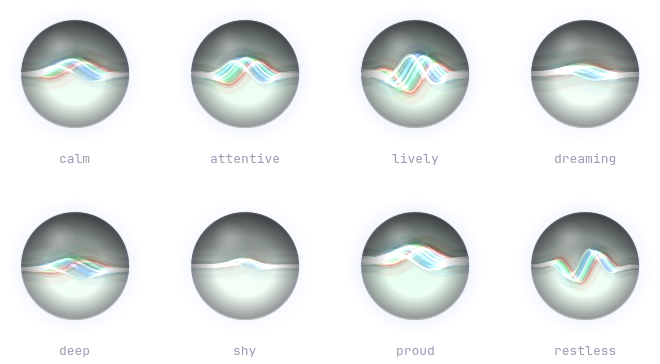
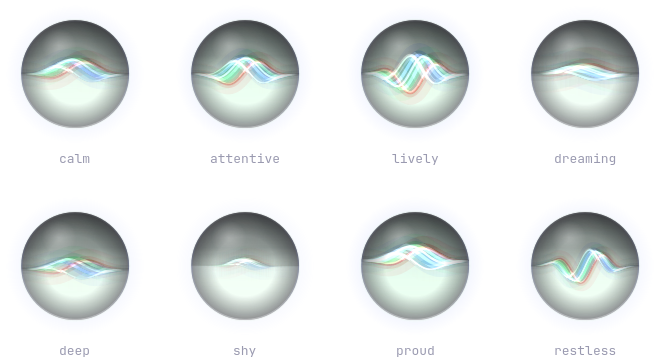
Give the fork its own IPC target, state dir, and config file
Installing this alongside Omarchy Companion showed that a fork inherits
three names it cannot share, and that all three fail silently.

The IPC target was `companion`, which the parent also claims. Quickshell
hands a duplicate target to whichever service registered first, so every
`omarchy-shell` call went to whichever plugin happened to load first, with
nothing but a warning in the shell log to say so. The state directory was
`$XDG_STATE_HOME/omarchy/companion/`, so both services published status,
home position, sessions and themed sheets over each other. And the pre-4.0
settings file the migration reads was `~/.config/omarchy/companion.json` —
reading it would have re-migrated the other plugin's settings into this one.

All three are named for this plugin now: target `iris`, state under
`omarchy/iris/`, and `iris.json` for a legacy file this fork has never had.
The CLI is `omarchy-shell iris ...` throughout.

Also fixes the band's brightness falloff. The original multiplies its final
colour by the horizontal gaussian as well as applying it to the amplitude;
this only did the latter, so the band flattened into a bright bar running
edge to edge at the equator instead of dimming towards the flanks. Canvas
cannot vary alpha along a stroke, so the stroke takes a horizontal gradient
whose alpha follows the same curve. Caught by looking at the orb on a real
desktop rather than in a test.

And corrects one CLI example the settings rename had missed
[…]

diff --git a/keystone/Service.qml b/keystone/Service.qml
@@ -107,7 +107,11 @@ Item {
     if (e) for (var j in e) if (root.allowedSetting(j)) out[j] = e[j]
     return out
   }
-  readonly property string configFile: root.home + "/.config/omarchy/companion.json"
+  // Omarchief kept its settings in a file before 4.0, and the migration that
+  // reads one still runs. This fork never had such a file — it is named after
+  // this plugin rather than its parent so that installing Iris alongside
+  // Omarchy Companion cannot read, or re-migrate, the other one's settings.
+  readonly property string configFile: root.home + "/.config/omarchy/iris.json"
   readonly property var settingKeys: [
     "activity", "activityChance", "activityRestSec", "agent",
     "edgeGap", "expressionChance", "expressions", "followFocus",
@@ -142,7 +146,7 @@ Item {
 
     // Once a canonical entry carries the marker, the retired file is inert.
     // This matters after a person removes a migrated key: a later restart
-    // must not resurrect the old value from ~/.config/omarchy/companion.json.
+    // must not resurrect the old value from ~/.config/omarchy/iris.json.
     var merged = root.mergeSettings(({}), root.migrationMarked(before) ? ({}) : fileCfg)
     var top = null
     for (var p = 0; p < next.plugins.length; p++) {
@@ -543,7 +547,7 @@ Item {
   // the rest of our state rather than in the user's config, because it is a
   // placement, not a preference.
 
-  readonly property string homeFile: stateHome + "/omarchy/companion/home.json"
+  readonly property string homeFile: stateHome + "/omarchy/iris/home.json"
   property var homes: ({})
   // A drag or travel can beat the asynchronous first read. Keep every new
   // position and the last chosen monitor until the disk state is available,
@@ -1356,7 +1360,7 @@ Item {
   // state, and a stamp file records which accent it was made for, so a
   // shell restart does not redo work that is already done.
 
-  readonly property string themedDir: stateHome + "/omarchy/companion/themed"
+  readonly property string themedDir: stateHome + "/omarchy/iris/themed"
   // One themed sheet per accent, named for it. Redrawing takes a second;
   // switching between themes the creature has already worn should not. The
   // sheet for the old accent stays on disk, so switching back is a stat and
@@ -1965,7 +1969,7 @@ Item {
   property bool welcomed: true
   FileView {
     id: welcomeStore
-    path: root.stateHome + "/omarchy/companion/welcomed"
+    path: root.stateHome + "/omarchy/iris/welcomed"
     atomicWrites: true
     printErrors: false
     onLoaded: root.welcomed = true
@@ -2326,9 +2330,9 @@ Item {
 
   // ------------------------------------------------------------ IPC
   //
-  //   omarchy-shell companion ask | summon | toggle | show | hide | status
-  //   omarchy-shell companion order "open spotify on DP-2"
-  //   omarchy-shell companion travel DP-2
+  //   omarchy-shell iris ask | summon | toggle | show | hide | status
+  //   omarchy-shell iris order "open spotify on DP-2"
+  //   omarchy-shell iris travel DP-2
 
   property bool shown: true
   // Slid mostly off its edge, out of the way. A click brings it back.
@@ -2343,7 +2347,10 @@ Item {
   // The chief's inner state, published as a small JSON file for scripts and
   // diagnostics. It is a read-only mirror; the bar binds to this service
   // directly and never waits for a file round-trip.
-  readonly property string statusDir: stateHome + "/omarchy/companion"
+  // Named for this plugin, not for the family. Omarchy Companion writes the
+  // same set of files under `omarchy/companion`, and two services sharing one
+  // status directory would each publish over the other's state.
+  readonly property string statusDir: stateHome + "/omarchy/iris"
 
   function statusJson() {
     return JSON.stringify({
@@ -2626,7 +2633,11 @@ Item {
   }
 
   IpcHandler {
-    target: "companion"
+    // Not "companion". Omarchy Companion claims that target, and Quickshell
+    // gives a duplicate to whichever service registered first — so a fork that
+    // kept it would silently route every `omarchy-shell` call to whichever of
+    // the two happened to load first.
+    target: "iris"
 
     function ask(): void { root.askOn("") }
     function order(text: string): string { root.shown = true; return root.runOrder(text) }

diff --git a/keystone/Iris.js b/keystone/Iris.js
@@ -1000,6 +1000,29 @@ function layerPoints(frame, spread, out) {
   return pts
 }
 
+/**
+ * A stroke that fades out towards the orb's flanks.
+ *
+ * The original applies its gaussian TWICE and to two different things: once to
+ * the band's amplitude, in `bandAt`, and once to the final colour — `col = cgl *
+ * mix(1.0, emMask * fall, res)` — which is what makes the band dim as it nears
+ * the edge rather than flattening into a bright bar across the equator.
+ *
+ * `bandAt` covers the first. This is the second: a horizontal gradient whose
+ * alpha follows the same curve, used as the stroke's colour. Canvas cannot vary
+ * an alpha along a stroke any other way, and stroking the band in segments to
+ * fake it costs eight times the calls for a worse edge.
+ */
+function fadedStroke(ctx, R, rgb, w, alpha) {
+  var grad = ctx.createLinearGradient(-R, 0, R, 0)
+  for (var i = 0; i <= 8; i++) {
+    var x = -1 + i / 4
+    var fall = Math.exp(-Math.pow(x * w.falloff, 2))
+    grad.addColorStop(i / 8, rgba(rgb, alpha * fall))
+  }
+  return grad
+}
+
 function strokeBand(ctx, pts, color, width, alpha) {
   if (alpha <= 0.002 || width <= 0) return
   ctx.beginPath()
@@ -1164,15 +1187,17 @@ function paint(ctx, frame, palette, paper) {
   for (i = 0; i < LAYERS.length; i++) {
     var col = layerColor(palette[i] || LAYERS[i].rgb, w)
     layerPoints(frame, LAYERS[i].spread, pts)
-    strokeBand(ctx, pts, rgba(col, 0.085 * w.intensity * alpha), core * 9, 1)
-    strokeBand(ctx, pts, rgba(col, 0.16 * w.intensity * alpha), core * 3.5, 1)
-    strokeBand(ctx, pts, rgba(col, 0.34 * w.intensity * alpha), core * 1.2, 1)
+    strokeBand(ctx, pts, fadedStroke(ctx, R, col, w, 0.085 * w.intensity * alpha), core * 9, 1)
+    strokeBand(ctx, pts, fadedStroke(ctx, R, col, w, 0.16 * w.intensity * alpha), core * 3.5, 1)
+    strokeBand(ctx, pts, fadedStroke(ctx, R, col, w, 0.34 * w.intensity * alpha), core * 1.2, 1)
   }
 
   // The white heart. Drawn on the mean of the two centre layers so it sits
   // where the crests actually agree, which is where the original goes white.
   layerPoints(frame, 0, pts)
-  strokeBand(ctx, pts, rgba(layerColor([1, 1, 1], w), 0.34 * w.intensity * alpha), core * 0.9, 1)
+  strokeBand(ctx, pts,
+    fadedStroke(ctx, R, layerColor([1, 1, 1], w), w, 0.34 * w.intensity * alpha),
+    core * 0.9, 1)
 
   ctx.globalCompositeOperation = "source-over"
   ctx.restore()

diff --git a/keystone/Model.js b/keystone/Model.js
@@ -475,7 +475,7 @@ function buildGuardedRunner(cwd, argv) {
   var quoted = []
   for (var i = 0; i < argv.length; i++) quoted.push(shellQuote(argv[i]))
   return "cd " + shellQuote(cwd) + " || exit 1; owner=$$; guard=; guard_ready=0;"
-    + " ready=$(mktemp /tmp/companion-guard.XXXXXX) || exit 1;"
+    + " ready=$(mktemp /tmp/iris-guard.XXXXXX) || exit 1;"
     + " wait_ready() { for ((ready_step=0; ready_step<200; ready_step++)); do"
     + " [ -s \"$ready\" ] && return 0;"
     + " [ -n \"$guard\" ] && kill -0 \"$guard\" 2>/dev/null || return 1;"

diff --git a/README.md b/README.md
@@ -160,9 +160,9 @@ being carried lets the band lag and slosh.
 From a terminal:
 
 ```bash
-omarchy-shell companion shell frosted
-omarchy-shell companion tint theme
-omarchy-shell companion temper lively
+omarchy-shell iris shell frosted
+omarchy-shell iris tint theme
+omarchy-shell iris temper lively
 ```
 
 Each lists what it accepts when given something it does not know. A value is
@@ -201,8 +201,8 @@ unchanged. Anything with news to deliver cuts a performance short, and so does
 your hand. To ask for one:
 
 ```bash
-omarchy-shell companion play notice
-omarchy-shell companion play          # whatever it feels like
+omarchy-shell iris play notice
+omarchy-shell iris play          # whatever it feels like
 ```
 
 ## Bring your own companion
@@ -230,25 +230,25 @@ and a themeable hue range. The complete schema is in
 ## Useful commands
 
 ```bash
-omarchy-shell companion ask
-omarchy-shell companion order "open my calendar"
-omarchy-shell companion stop
-omarchy-shell companion summon
-omarchy-shell companion fresh
-omarchy-shell companion travel DP-2
-omarchy-shell companion tuck on
-omarchy-shell companion show
-omarchy-shell companion hide
-omarchy-shell companion status
-omarchy-shell companion shell halo
-omarchy-shell companion color bleu
-omarchy-shell companion temper deep
+omarchy-shell iris ask
+omarchy-shell iris order "open my calendar"
+omarchy-shell iris stop
+omarchy-shell iris summon
+omarchy-shell iris fresh
+omarchy-shell iris travel DP-2
+omarchy-shell iris tuck on
+omarchy-shell iris show
+omarchy-shell iris hide
+omarchy-shell iris status
+omarchy-shell iris shell halo
+omarchy-shell iris tint bleu
+omarchy-shell iris temper deep
 ```
 
 Every mutation validates its value before changing state. The JSON status
 snapshot lives at
-`$XDG_STATE_HOME/omarchy/companion/status.json` (normally
-`~/.local/state/omarchy/companion/status.json`) for read-only integrations.
+`$XDG_STATE_HOME/omarchy/iris/status.json` (normally
+`~/.local/state/omarchy/iris/status.json`) for read-only integrations.
 It is output, not the control plane; the bar talks to the service directly.
 
 ## Remove
@@ -260,8 +260,8 @@ omarchy plugin remove io.github.moerdowo.omarchyiris
 Confirm Omarchy's removal prompt. Omarchy Iris installs no hooks, background unit,
 or command outside its plugin folder. Its optional local history and
 recolored-sheet cache remain in
-`$XDG_STATE_HOME/omarchy/companion/` (normally
-`~/.local/state/omarchy/companion/`) so an accidental reinstall does not erase
+`$XDG_STATE_HOME/omarchy/iris/` (normally
+`~/.local/state/omarchy/iris/`) so an accidental reinstall does not erase
 them. They can be removed separately if that history is no longer wanted.
 
 ## Develop and verify

diff --git a/CHANGELOG.md b/CHANGELOG.md
@@ -33,6 +33,12 @@ drawn companion's three settings were replaced rather than renamed.
   pondering sweep all still run — they lean the band and bias where its
   energy gathers rather than pointing eyes, which is the same intent in the
   only form this shape can carry.
+- Applied the horizontal gaussian to the band's BRIGHTNESS as well as to its
+  amplitude. The original multiplies its final colour by that falloff, which
+  is what makes the band dim towards the orb's flanks; applying it only to the
+  amplitude flattened it into a bright bar running edge to edge at the
+  equator. Caught by looking at the thing on a real desktop rather than in a
+  test.
 - Overruled the palette for errors only. A person who dresses the orb in Ice
   still needs a failure to look like a failure, so `alert` collapses the band
   towards a fixed alarm red. It is the one place the character's own tint does
@@ -52,6 +58,24 @@ drawn companion's three settings were replaced rather than renamed.
   "does the resting companion change its idle look on its own" pair, and a
   spritesheet pet still answers them with faces; the orb answers them with
   tempers.
+
+### Coexisting with its parent
+
+Installing this beside Omarchy Companion turned up three things a fork
+inherits and must not share. All three are renamed for this plugin:
+
+- The IPC target was `companion`, which its parent also claims. Quickshell
+  hands a duplicate target to whichever service registered first, so every
+  `omarchy-shell` call was being routed to whichever of the two happened to
+  load first — silently, with only a warning in the shell log. It is `iris`
+  now: `omarchy-shell iris ask`, `omarchy-shell iris temper deep`.
+- The state directory was `$XDG_STATE_HOME/omarchy/companion/`, so two
+  services were publishing status, home position, session list and themed
+  sheets over each other. It is `omarchy/iris/` now.
+- The pre-4.0 settings file the migration reads was
+  `~/.config/omarchy/companion.json`. This fork never had one, and reading
+  its parent's would have re-migrated the other plugin's settings into this
+  one. It is `iris.json` now, which is a path that has never existed.
 
 ### Repository
 

diff --git a/docs/development.md b/docs/development.md
@@ -113,11 +113,11 @@ rescans the manifest, and reloads the affected service and widget. A shell
 restart should not be part of the normal edit loop.
 
 The service writes its public snapshot to
-`$XDG_STATE_HOME/omarchy/companion/status.json` (normally
-`~/.local/state/omarchy/companion/status.json`). For the running version:
+`$XDG_STATE_HOME/omarchy/iris/status.json` (normally
+`~/.local/state/omarchy/iris/status.json`). For the running version:
 
 ```bash
-omarchy-shell companion status
+omarchy-shell iris status
 ```
 
 The status command and the journal are more reliable than assuming the copy

diff --git a/docs/pets.md b/docs/pets.md
@@ -5,12 +5,12 @@ A pet is a folder with a `pet.json` and one spritesheet. Drop it into
 bar widget's settings. To name it without the panel:
 
 ```bash
-omarchy-shell companion pet <id>
+omarchy-shell iris pet <id>
 ```
 
 which writes `pet` onto this plugin's entry in
 `~/.config/omarchy/shell.json`, where the shell keeps every plugin's
-settings. A pre-4.0 `~/.config/omarchy/companion.json` is read once and
+settings. A pre-4.0 `~/.config/omarchy/iris.json` is read once and
 migrated there, so an older setup keeps working without creating two sources
 of truth.
 

diff --git a/SECURITY.md b/SECURITY.md
@@ -23,7 +23,7 @@ can affect a later turn.
 Omarchy plugins execute unsandboxed inside the long-lived `omarchy-shell`
 process. Omarchy Iris does not make that boundary narrower.
 
-An explicit bubble submission or `omarchy-shell companion order …` call runs
+An explicit bubble submission or `omarchy-shell iris order …` call runs
 the selected agent headlessly and unattended. Depending on the agent and the
 installed Omarchy version, that mode may approve actions automatically or
 bypass approval and sandbox checks entirely. Sending an order to the Quake
